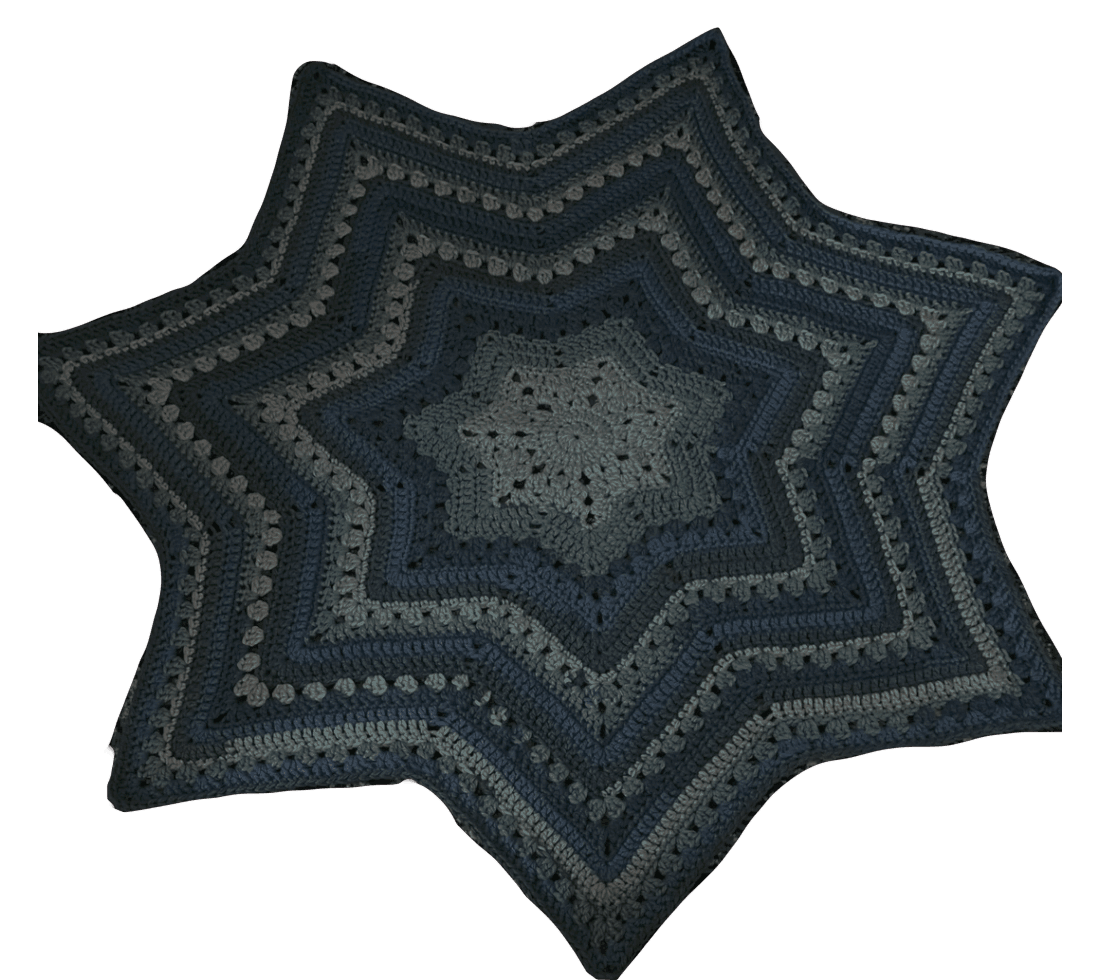
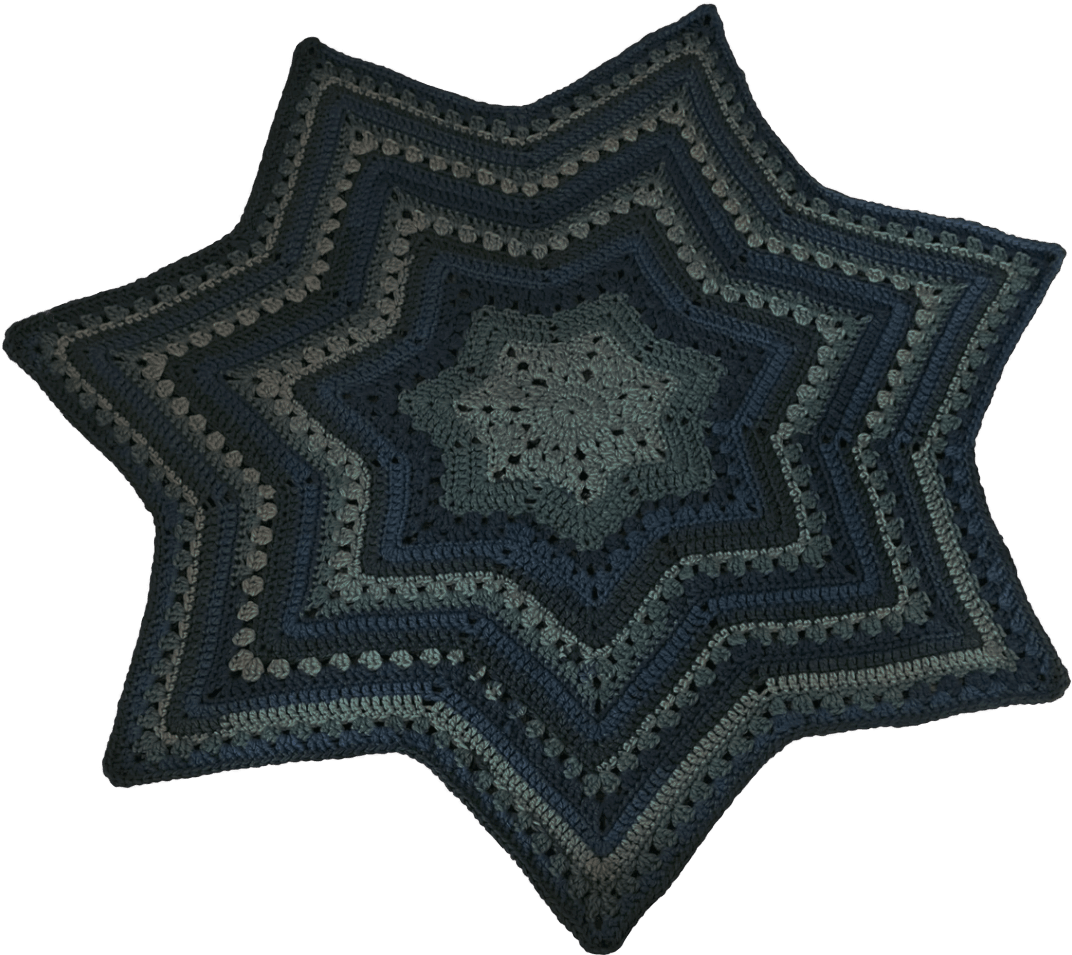
trinkets update

Changed region(s): [[0.0, 0.0, 1.0, 1.0]]

diff --git a/codecreature.net/trinkets/index.html b/codecreature.net/trinkets/index.html
@@ -129,10 +129,12 @@
 						<li>Gold ship pendant by <a href="https://www.metmuseum.org/art/collection/search/197151">Alfred André</a>, late 19th century</li>
 						<li>Coffin doily by <a href="https://www.etsy.com/se-en/listing/1096629893">CreativeWorksByAnnie</a> (you can make one!)</li>
 						<li>Glass shark egg with dried flowers by <a href="https://www.andreaspencerglass.com/">Andrea Spencer Glass</a></li>
+						<li>Brass <a href="https://www.1stdibs.com/furniture/decorative-objects/sculptures/animal-sculptures/very-large-antique-victorian-brass-lobster-form-box/id-f_30319362/">lobster box</a>, late 1800s</li>
 						<li>Stained glass insect lamp by <a href="https://www.instagram.com/p/DB1caqyuGHp/">cady_the_creator</a></li>
 						<!-- Not yet added --
 						<li>Red-brown ceramic cat from the Zsolnay Workshop, c. 1908, sold on <a href="https://www.1stdibs.com/furniture/decorative-objects/sculptures/animal-sculptures/symbolist-cat/id-f_34435752/">1stDibs</a></li>
-						<li>Brass <a href="https://www.1stdibs.com/furniture/decorative-objects/sculptures/animal-sculptures/very-large-antique-victorian-brass-lobster-form-box/id-f_30319362/">lobster box</a>, late 1800s</li>
+						<li>Butterflies under glass dome by Hasharat, 21st century, sold on <a href="https://www.1stdibs.com/furniture/decorative-objects/sculptures/natural-specimens/hasharat-summer-garden-butterfly-specimen-display-19th-century-glass-dome/id-f_52191102/">1stDibs</a></li>
+						<li>Pointy welded bronze cat sculpture by James Bearden, sold on <a href="https://www.1stdibs.com/furniture/decorative-objects/sculptures/animal-sculptures/james-bearden-1960s-style-welded-bronze-black-painted-brutalist-cat-sculpture/id-f_28717402/#galleryModalOpen">1stDibs</a></li>
 						-->
 					</ul>
 					
@@ -154,10 +156,11 @@
 					</ul>
 					
 					<h4>My Images</h4>
-					Photos I took myself of objects I own. Free to use for non-commercial purposes. Credit appreciated but not required.
+					Photos I took myself. Free to use for non-commercial purposes. Credit appreciated but not required.
 					<ul>
 						<li>Koi fish charm</li>
 						<li>Antique spoons</li>
+						<li>Gold-wrapped shell charm</li>
 						<li>Dark green stone orb</li>
 						<li>Hedgehog salt shaker</li>
 					</ul>
@@ -225,7 +228,7 @@
 				<img src="images/crochet_star.png" alt="" style="rotate: -8deg; left: -700px; top: -290px;">
 				
 				<img src="images/beetle_cage.png" alt="" style="left: 786px; top: 1342px;">
-				<img id="tarot-fool" src="images/tarot_fool.png" alt="" style="rotate: -38deg; left: 1017px; top: 1413px; width: 192px;">
+				<img id="tarot-fool" class="interactive" src="images/tarot_fool.png" alt="" style="rotate: -38deg; left: 1017px; top: 1413px; width: 192px;">
 				<img src="images/koi_charm.png" alt="" style="rotate: -10deg; left: 523px; top: 1470px;">
 				
 				<div id="shadow-box" class="img-magnifier-container">
@@ -257,6 +260,7 @@
 				<img src="images/mirror_blue_star.png" alt="" style="top: 295px; left: 1272px;">
 				<img src="images/stone_orb.png" alt="" style="left: 1382px; top: 279px;">
 				<img src="images/thin_lamb.png" alt="" style="rotate: -5deg; left: 1092px; top: 367px;">
+				<img src="images/bar_chain.png" alt="" style="left: 972px; top: -238px; scale: .800;">
 				
 				<img src="images/iron_owl.png" alt="" style="left: 1049px; top: 684px;">
 				<img src="images/hands_pin.png" alt="" style="z-index: -1; rotate: 15deg; left: 1188px; top: 653px;">
@@ -275,11 +279,12 @@
 					<img class="hover-hide" src="images/face_hand.png" alt="">
 				</button>
 				<img src="images/etoile.png" class="passthrough" alt="" style="left: 11px; top: 510px; rotate: -20deg; scale: .800;">
-				<img src="images/key_bird.png" alt="" style="rotate: -78deg; left: -67px; top: 335px;">
+				<img src="images/key_bird.png" alt="" style="rotate: -78deg; left: -3px; top: 345px;">
 				
-				<img src="images/wilhelm_pantomime.png" alt="" style="left: -345px; top: -183px; scale: .7;">
+				<img src="images/secret_teachings_of_all_ages.png" alt="" style="left: -128px; top: -274px; rotate: 11deg; scale: .800;">
+				<img src="images/wilhelm_pantomime.png" alt="" style="left: -381px; top: -163px; scale: .7;">
 				<!-- CELESTIAL BOOK -->
-				<button class="book interactive container" style="width: 220px; height: 310px; rotate: -11deg; left: -129px; top: 49px;">
+				<button class="book interactive container" style="width: 220px; height: 310px; rotate: -11deg; left: -171px; top: 74px;">
 					<div class="back"><img src="images/books/astronomy_observation.png" alt=""></div>
 					<!-- inner pages here, in reverse order -->
 					<div class="page pageInner"><img src="images/books/mallet_11.png" alt=""></div>
@@ -309,6 +314,7 @@
 				
 				<!----------------- LEFT SIDE ------------------>
 				<img src="images/shark_egg.png" alt="" style="rotate: -24deg; left: -420px; top: 506px; scale: .800;">
+				<img src="images/shell_charm.png" alt="" style="left: -398px; top: 1259px; scale: .800;">
 				<a id="snailfish" class="interactive container glow-focus" href="/shrines/snailfish" style="rotate: -10deg; left: -393px; top: 983px;">
 					<div class="paper-popout top"><span>Snailfish</span></div>
 					<img src="images/snailfish_swirei.png" alt="">
@@ -317,18 +323,27 @@
 				<img src="images/cat_bite.jpg" alt="" style="rotate: 21deg; left: -180px; top: 835px; scale: .800;">
 				<img src="images/kind_to_animals.png" alt="" style="left: -30px; top: 804px; scale: .800;">
 				
+				<!-- LOBSTER BOX -->
+				<div id="lobster-box" style="left: -770px; top: 1083px; scale: .800;">
+					<img src="images/lobster_box.png" alt="">
+					<button class="top">
+						<div class="interactive-area"></div>
+						<img src="images/lobster_box_top.png" alt="">
+					</button>
+				</div>
+				
 				<!----------------- BOTTOM LEFT ------------------>
 				<img src="images/star_goose.png" alt="" style="left: -63px; top: 1307px;">
-				<img src="images/soprano_scream.png" alt="" style="rotate: 19deg; left: 53px; top: 1770px;">
-				<img src="images/swan_bead.png" alt="" style="rotate: 20deg; left: 229px; top: 1727px;">
-				<img src="images/louisville_bottle.png" alt="" style="left: -38px; top: 1708px; scale: .800;">
-				<img src="images/fat_ant.png" alt="" style="left: 243px; top: 1857px; rotate: 130deg;">
-				<div id="insect-lamp" class="container clipped" onclick="this.querySelector('.light').classList.toggle('hidden');" style="left: -312px; top: 1226px;">
-					<div class="light"></div>
+				<img src="images/soprano_scream.png" alt="" style="rotate: 19deg; left: 82px; top: 1684px;">
+				<img src="images/swan_bead.png" alt="" style="rotate: 20deg; left: 213px; top: 1645px;">
+				<img src="images/louisville_bottle.png" alt="" style="left: 175px; top: 1795px; scale: .800;">
+				<img src="images/fat_ant.png" alt="" style="left: 133px; top: 2044px; rotate: 130deg;">
+				<div id="insect-lamp" class="container clipped" onclick="this.querySelector('.light').classList.toggle('hidden');" style="left: -193px; top: 1461px; scale: .800">
+					<div class="light hidden"></div>
 					<img src="images/insect_lamp.png" alt="">
 				</div>
-				<img src="images/ancient_idol.png" alt="" style="left: -354px; top: 1760px; scale: .800;">
-				<img src="images/suits_die.png" alt="" style="left: -243px; top: 1888px;">
+				<img src="images/ancient_idol.png" alt="" style="left: -273px; top: 1997px; scale: .800;">
+				<img src="images/suits_die.png" alt="" style="left: -149px; top: 2128px;">
 				
 				<!-- POKEMON BOOK -->
 				<a href="/shrines/pokemon" class="book" style="rotate: -8deg; left: 311px; top: 1605px;">
@@ -377,7 +392,7 @@
 				<img src="images/green_glass_lanterns.png" alt="" style="left: 1485px; top: -200px; scale: .800;">
 				
 				<img src="images/ornate_ship_chain.png" alt="" style="z-index: -1; left: 1720px; top: 1390px; scale: .800;">
-				<div id="ship" style="left: 1540px; top: 1636px; scale: .800;">
+				<div id="ship" class="interactive" style="left: 1540px; top: 1636px; scale: .800;">
 					<img class="passthrough" src="images/ornate_ship.png" alt="">
 				</div>
 				
@@ -409,6 +424,8 @@
 					</div></div>
 					<button class="front" onclick="console.log(click);"><img src="images/finger_pot_front.png" alt=""></button>
 				</div>
+				
+				<img src="images/lion_puppet.png" class="passthrough" alt="" style="left: 547px; top: 1777px; scale: .800;">
 				
 				<img src="images/skeleton_gaze.png" alt="" style="left: 1911px; top: 962px;">
 				<img src="images/ivory_ring.png" alt="" style="left: 1739px; top: 1111px;">

diff --git a/codecreature.net/trinkets/trinkets-default.css b/codecreature.net/trinkets/trinkets-default.css
@@ -1,13 +1,13 @@
 :root {
-	--page-width: 2320px;
-	--page-height: 1900px;
+	--page-width: 1920px;
+	--page-height: 1080px;
 	--text: #47341a;
 	--link-text: #32556a;
 	--link-hover: #131745;
 	--shadow: drop-shadow(4px 4px 3px #21120c88);
 	--paper-color: #dfd4ac;
-	--cursor: url("cursor_arrow.png"), auto;
-	--cursor-pointer: url("cursor_pointer.png"), auto;
+	--cursor: url("/graphix/cursors/victorian_arrow.png"), auto;
+	--cursor-pointer: url("/graphix/cursors/victorian_hand.png"), pointer;
 }
 
 body, html {
@@ -18,8 +18,8 @@ body, html {
 body { overflow: hidden; }
 
 body:not(.defaultCursor) {
-	cursor: url("/graphix/cursors/victorian_arrow.png"), auto;
-	a, label, input, button { cursor: url("/graphix/cursors/victorian_hand.png"), pointer; }
+	cursor: var(--cursor);
+	a, label, input, button, .interactive, .clipped:after { cursor: var(--cursor-pointer); }
 }
 
 .passthrough, .corner { pointer-events: none; }
@@ -189,6 +189,9 @@ main {
 	position: absolute;
 	width: var(--page-width);
 	height: var(--page-height);
+	top: 0;
+	left: 0;
+	@media screen and ((width < 600px) or (height < 500px)) { zoom: .85; }
 }
 
 .repositioner { position: relative; }
@@ -245,3 +248,4 @@ main {
 	transform: translate(-50%,-50%);
 	filter: var(--shadow);
 }
+#load-screen > .wrapper img { max-width: 90vw; }

diff --git a/codecreature.net/trinkets/my-stuff.css b/codecreature.net/trinkets/my-stuff.css
@@ -1,3 +1,10 @@
+:root {
+	--page-width: 2320px;
+	--page-height: 2100px;
+	--top-extra: 100px;
+	--left-extra: 400px;
+}
+
 body {
 	background: #593824;
 }
@@ -17,11 +24,14 @@ body:before {
 }
 
 #drag-wrapper {
-	top: -100px; left: -400px;
+	top: calc(-1 * var(--top-extra));
+	left: calc(-1 * var(--left-extra));
+	width: calc(var(--page-width) + var(--left-extra));
+	height: calc(var(--page-height) + var(--top-extra) + 112px);
 }
 .repositioner {
-	top: 100px;
-	left: 400px;
+	top: var(--top-extra);
+	left: var(--left-extra);
 }
 
 .page-settings {
@@ -339,4 +349,22 @@ body:before {
 }
 #egg-doll:after {
 	clip-path: polygon(55% 1%, 74% 2%, 100% 42%, 89% 75%, 65% 100%, 59% 95%, 64% 63%, 26% 73%, 0% 56%, 4% 48%, 37% 55%, 22% 28%);
+}
+
+#lobster-box { position: relative; pointer-events: none; }
+#lobster-box .top, #lobster-box .top .interactive-area {
+	position: absolute;
+	top: 0; left: 0;
+}
+#lobster-box .top img {
+	position: relative;
+	transition: transform .5s;
+}
+#lobster-box .top .interactive-area {
+	pointer-events: initial;
+	width: 100%; height: 100%;
+	clip-path: polygon(70% 23%, 80% 43%, 45% 85%, 27% 81%, 43% 42%);
+}
+#lobster-box .top:has(.interactive-area:hover) img, #lobster-box .top:focus-visible img {
+	transform: translate(-20%, -20%);
 }

diff --git a/codecreature.net/updates/updateLog.js b/codecreature.net/updates/updateLog.js
@@ -26,6 +26,30 @@ const updateLog = [
 		`
 	},*/
 	{
+		date: new Date('2026-10-02T00:29'),
+		authors: ['emery'],
+		tags: ['trinkets','minor'],
+		summary: `
+			some new <a href="/trinkets">trinkets</a>
+		`,
+		details: `
+			<p>edits:<ul>
+				<li>more space at the bottom! now i need even more stuff to fill it...</li>
+				<li>cut-worms illustration links to worm race</li>
+				<li>waiting room loading image shrinks to fit small screens</li>
+				<li>cleaned transparency edges on crochet star rug</li>
+				<li>fixed error when attempting to click and drag from the edge of the screen</li>
+			</ul></p>
+			<p>new items:<ul>
+				<li>opening brass lobster box, left side (need to decide what to put in it...)</li>
+				<li>gilded shell charm, left side</li>
+				<li>illustration of hand surrounded by angel wings, top left</li>
+				<li>gold bar chain, top center</li>
+				<li>royal lion puppet, bottom center</li>
+			</ul></p>
+		`
+	},
+	{
 		date: new Date('2026-09-30T04:05'),
 		authors: ['emery'],
 		tags: ['general','minor'],
